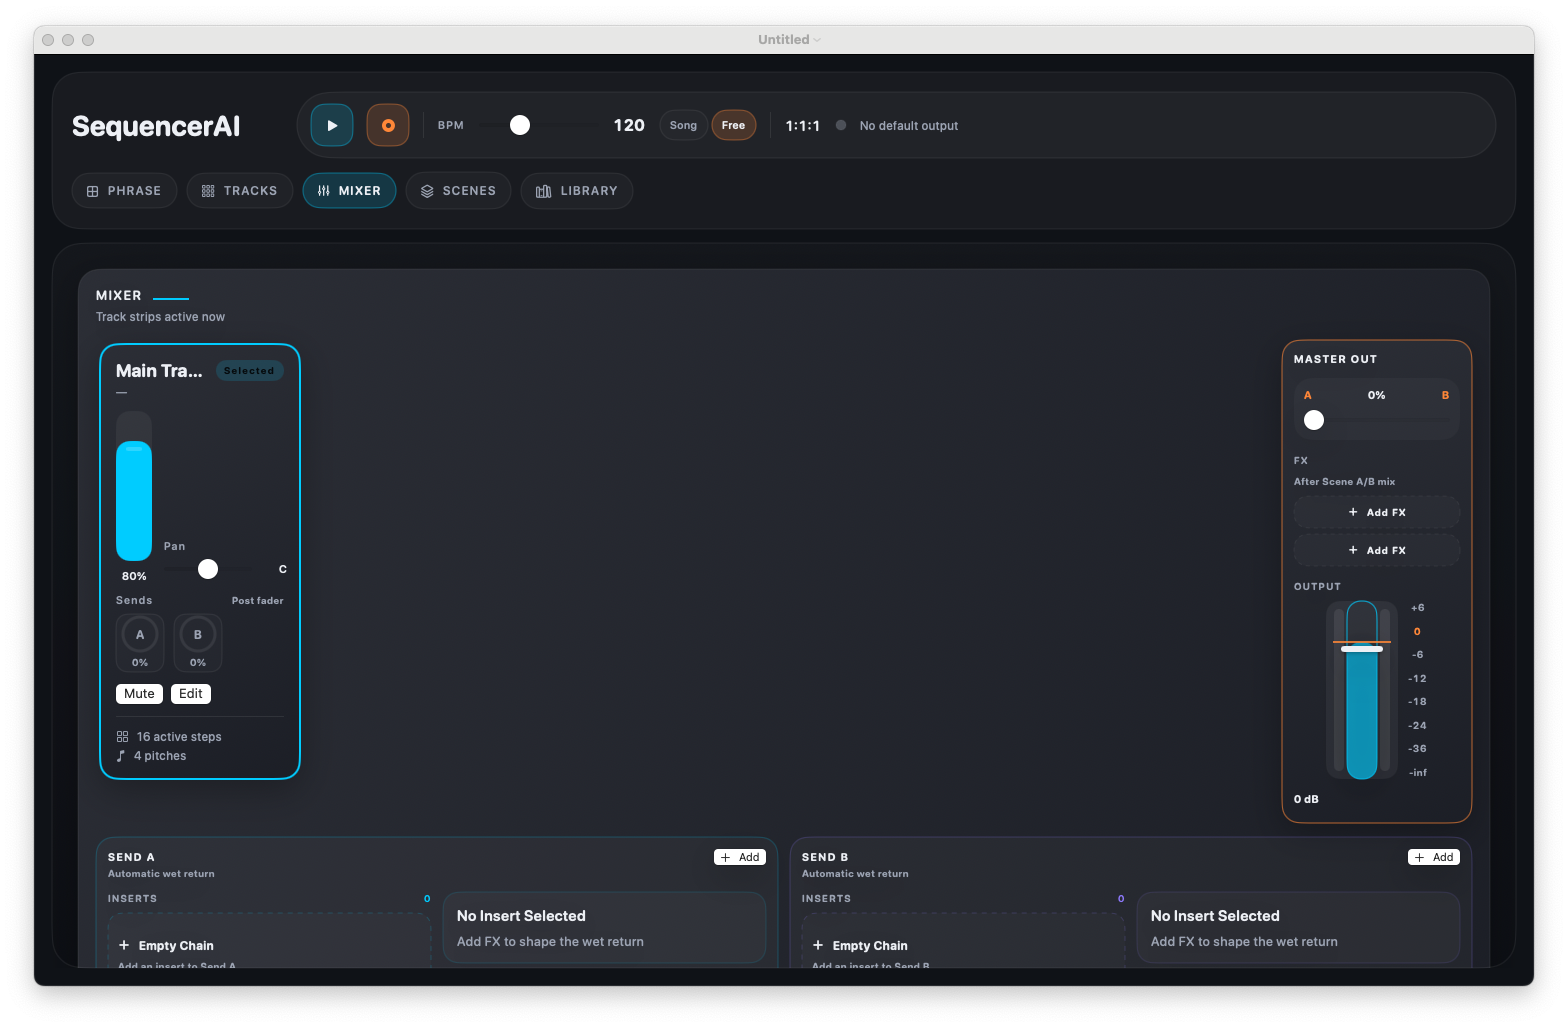
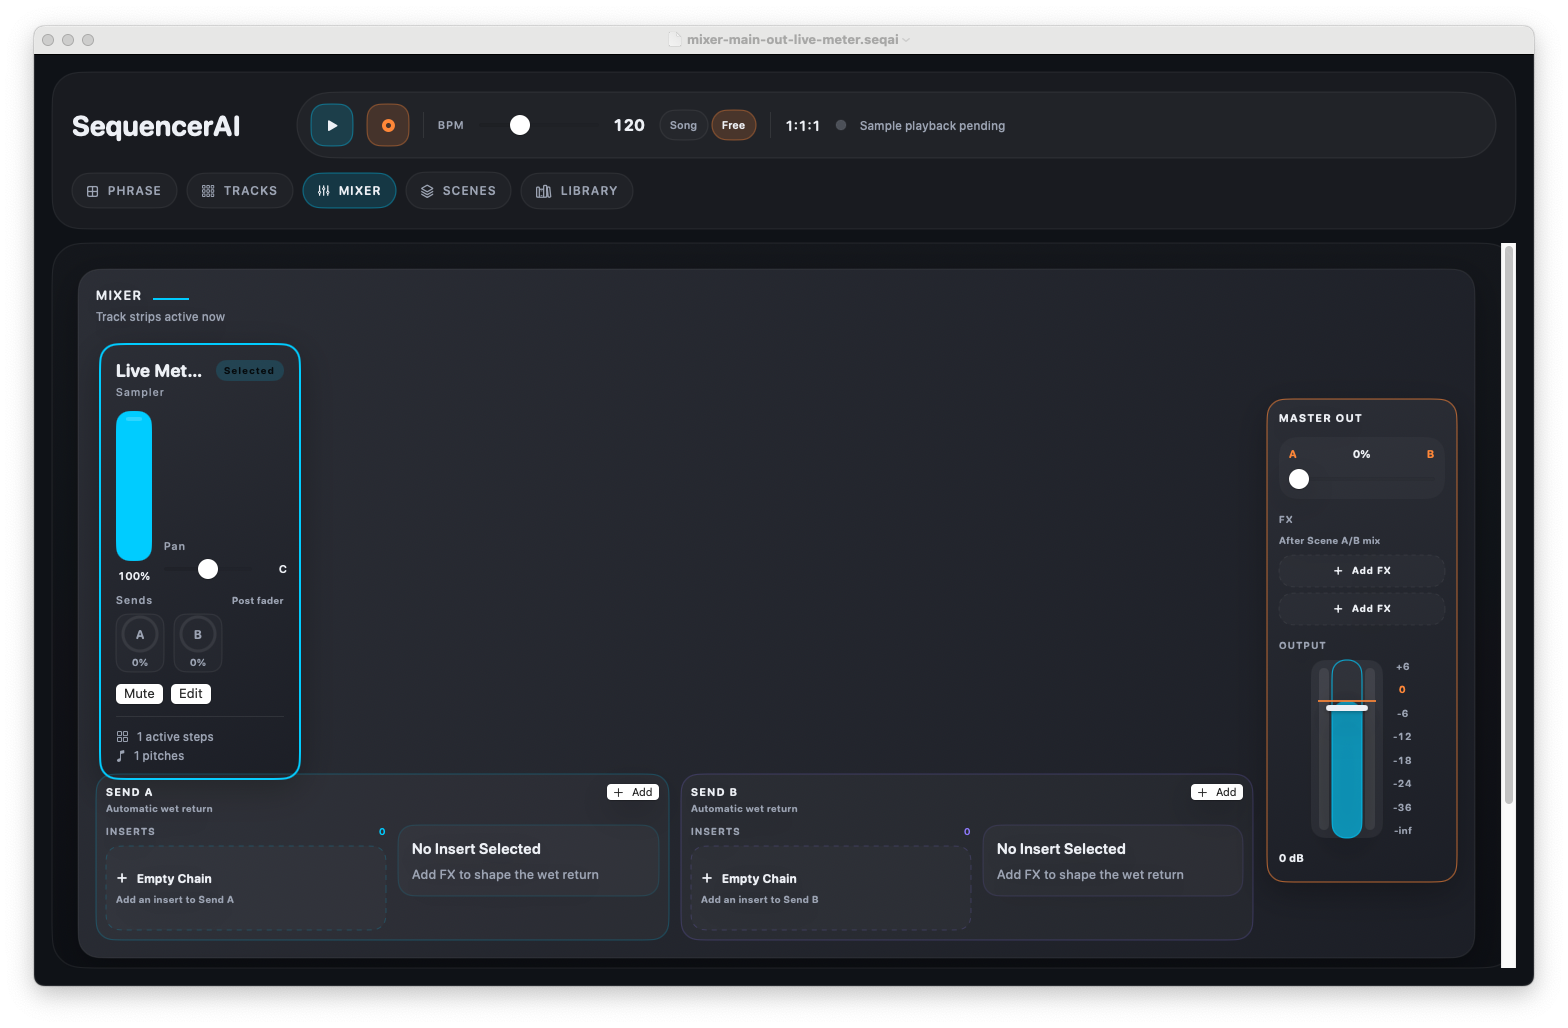
fix(send-effects): finalize mixer evidence recapture

diff --git a/Sources/UI/Mixer/MixerWorkspaceView.swift b/Sources/UI/Mixer/MixerWorkspaceView.swift
@@ -32,7 +32,7 @@ struct MixerWorkspaceView: View {
                 }
             }
         }
-        .frame(minHeight: 640)
+        .frame(minHeight: 920)
         .sheet(item: $addSendFXRequest) { request in
             addSendFXSheet(for: request.busID)
         }
@@ -46,8 +46,9 @@ struct MixerWorkspaceView: View {
                         .frame(maxWidth: .infinity, minHeight: 420, alignment: .topLeading)
 
                     switch presentation {
-                    case .fullColumn:
-                        MasterOutputColumnView()
+                    case let .fullColumn(width):
+                        Color.clear
+                            .frame(width: width)
                     case let .compactStrip(width):
                         MasterOutputCompactStrip(
                             width: width,
@@ -60,6 +61,12 @@ struct MixerWorkspaceView: View {
                 }
 
                 sendBusDetails
+                    .padding(.trailing, sendBusTrailingReserve(for: presentation))
+            }
+
+            if case .fullColumn = presentation {
+                MasterOutputColumnView()
+                    .zIndex(1)
             }
 
             if presentation.usesCompactOverlay, isMasterOverlayPresented {
@@ -68,6 +75,15 @@ struct MixerWorkspaceView: View {
                     .transition(.move(edge: .trailing).combined(with: .opacity))
                     .zIndex(2)
             }
+        }
+    }
+
+    private func sendBusTrailingReserve(for presentation: MasterOutputColumnPresentation) -> CGFloat {
+        switch presentation {
+        case let .fullColumn(width):
+            width + 14
+        case .compactStrip:
+            0
         }
     }
 
@@ -92,7 +108,7 @@ struct MixerWorkspaceView: View {
 
     private func sendBusDetail(_ sendBus: SendBusState, accent: Color) -> some View {
         let selectedInsert = selectedInsert(in: sendBus)
-        return VStack(alignment: .leading, spacing: 12) {
+        return VStack(alignment: .leading, spacing: 10) {
             HStack(alignment: .firstTextBaseline, spacing: 10) {
                 VStack(alignment: .leading, spacing: 3) {
                     Text(sendBus.name.uppercased())
@@ -123,7 +139,7 @@ struct MixerWorkspaceView: View {
                 }
             }
         }
-        .padding(12)
+        .padding(10)
         .frame(maxWidth: .infinity, alignment: .topLeading)
         .background(Color.white.opacity(StudioOpacity.subtleFill), in: RoundedRectangle(cornerRadius: StudioMetrics.CornerRadius.panel, style: .continuous))
         .overlay(
@@ -246,7 +262,7 @@ struct MixerWorkspaceView: View {
     @ViewBuilder
     private func sendInsertEditor(_ insert: SendBusInsert?, bus: SendBusState, accent: Color) -> some View {
         if let insert {
-            VStack(alignment: .leading, spacing: 10) {
+            VStack(alignment: .leading, spacing: 7) {
                 HStack {
                     Text("EDIT")
                         .studioText(.micro)
@@ -269,7 +285,7 @@ struct MixerWorkspaceView: View {
 
                 sendKindEditor(insert, busID: bus.id, accent: accent)
             }
-            .padding(12)
+            .padding(8)
             .background(Color.white.opacity(StudioOpacity.subtleFill), in: RoundedRectangle(cornerRadius: StudioMetrics.CornerRadius.tile, style: .continuous))
             .overlay(
                 RoundedRectangle(cornerRadius: StudioMetrics.CornerRadius.tile, style: .continuous)
@@ -289,6 +305,7 @@ struct MixerWorkspaceView: View {
                 Text("High Pass").tag(MasterFilterSettings.Mode.highPass)
             }
             .pickerStyle(.segmented)
+            .controlSize(.small)
 
             sendSliderRow(
                 title: "Cutoff",
@@ -309,6 +326,7 @@ struct MixerWorkspaceView: View {
             Stepper("Bits: \(settings.bitDepth)", value: sendBitDepthBinding(insertID: insert.id, busID: busID, settings: settings), in: 4...16)
                 .studioText(.label)
                 .foregroundStyle(StudioTheme.text)
+                .controlSize(.small)
             sendSliderRow(
                 title: "Rate",
                 value: sendBitRateBinding(insertID: insert.id, busID: busID, settings: settings),
@@ -332,7 +350,7 @@ struct MixerWorkspaceView: View {
     }
 
     private func sendSliderRow(title: String, value: Binding<Double>, range: ClosedRange<Double>, label: String, accent: Color) -> some View {
-        HStack(spacing: 8) {
+        HStack(spacing: 6) {
             Text(title)
                 .studioText(.label)
                 .foregroundStyle(StudioTheme.mutedText)
